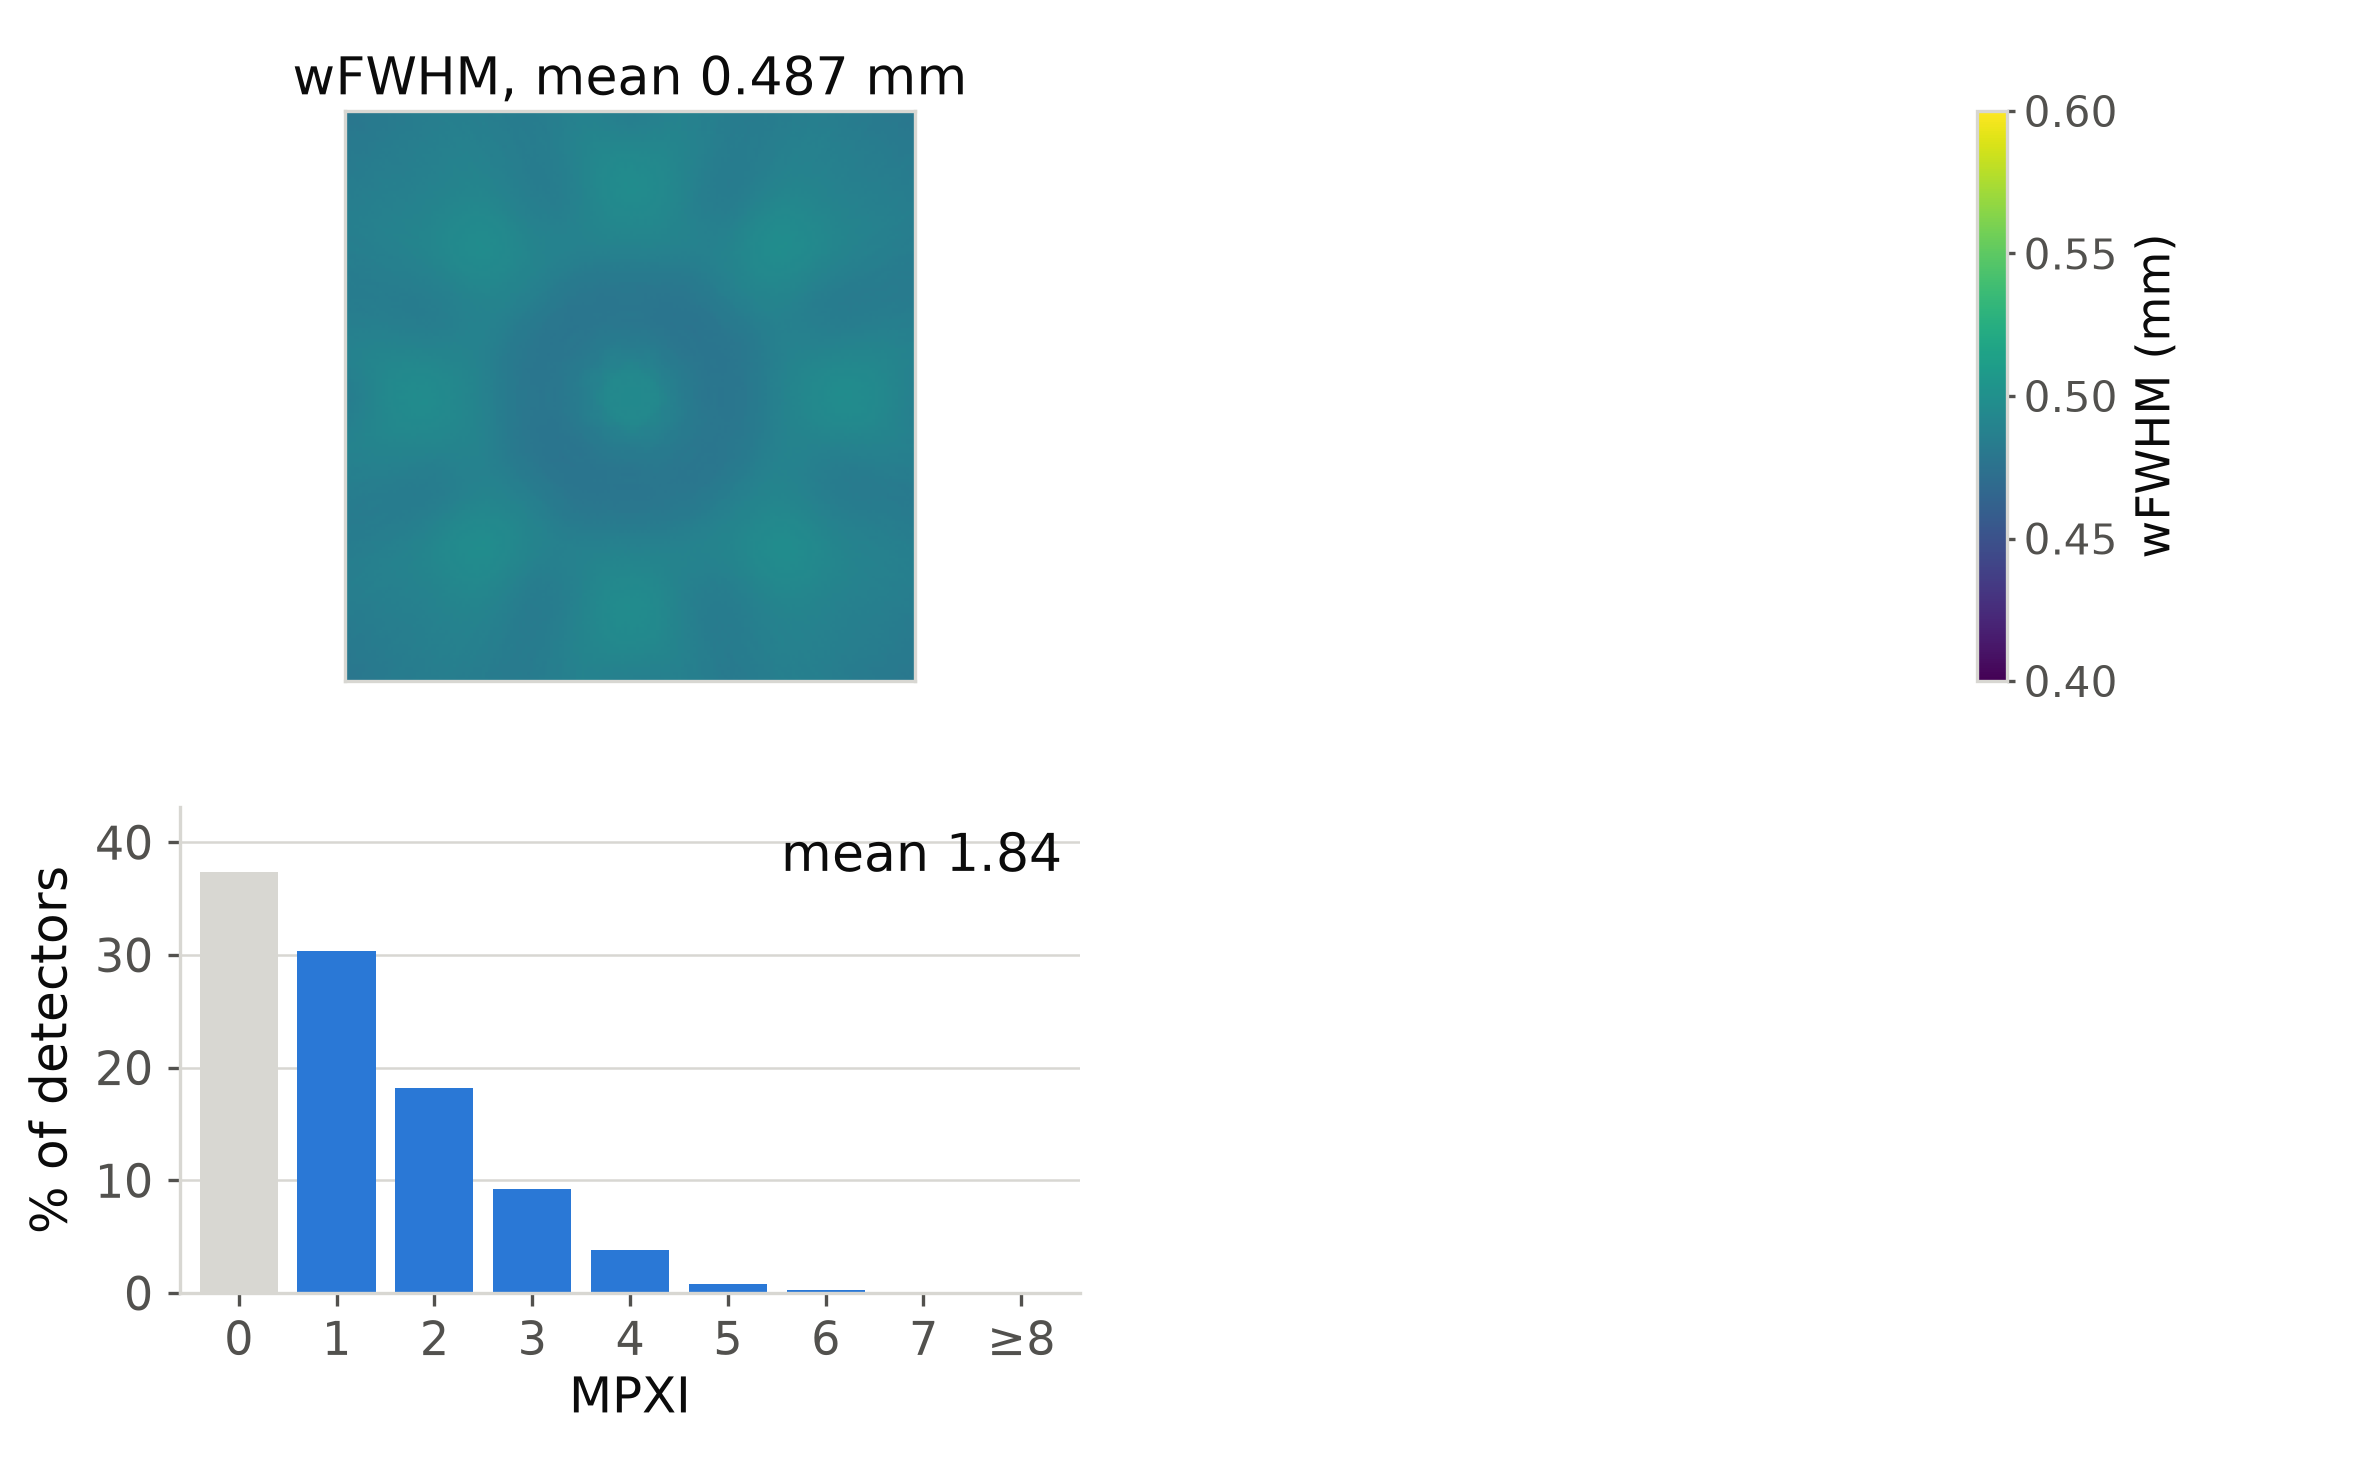
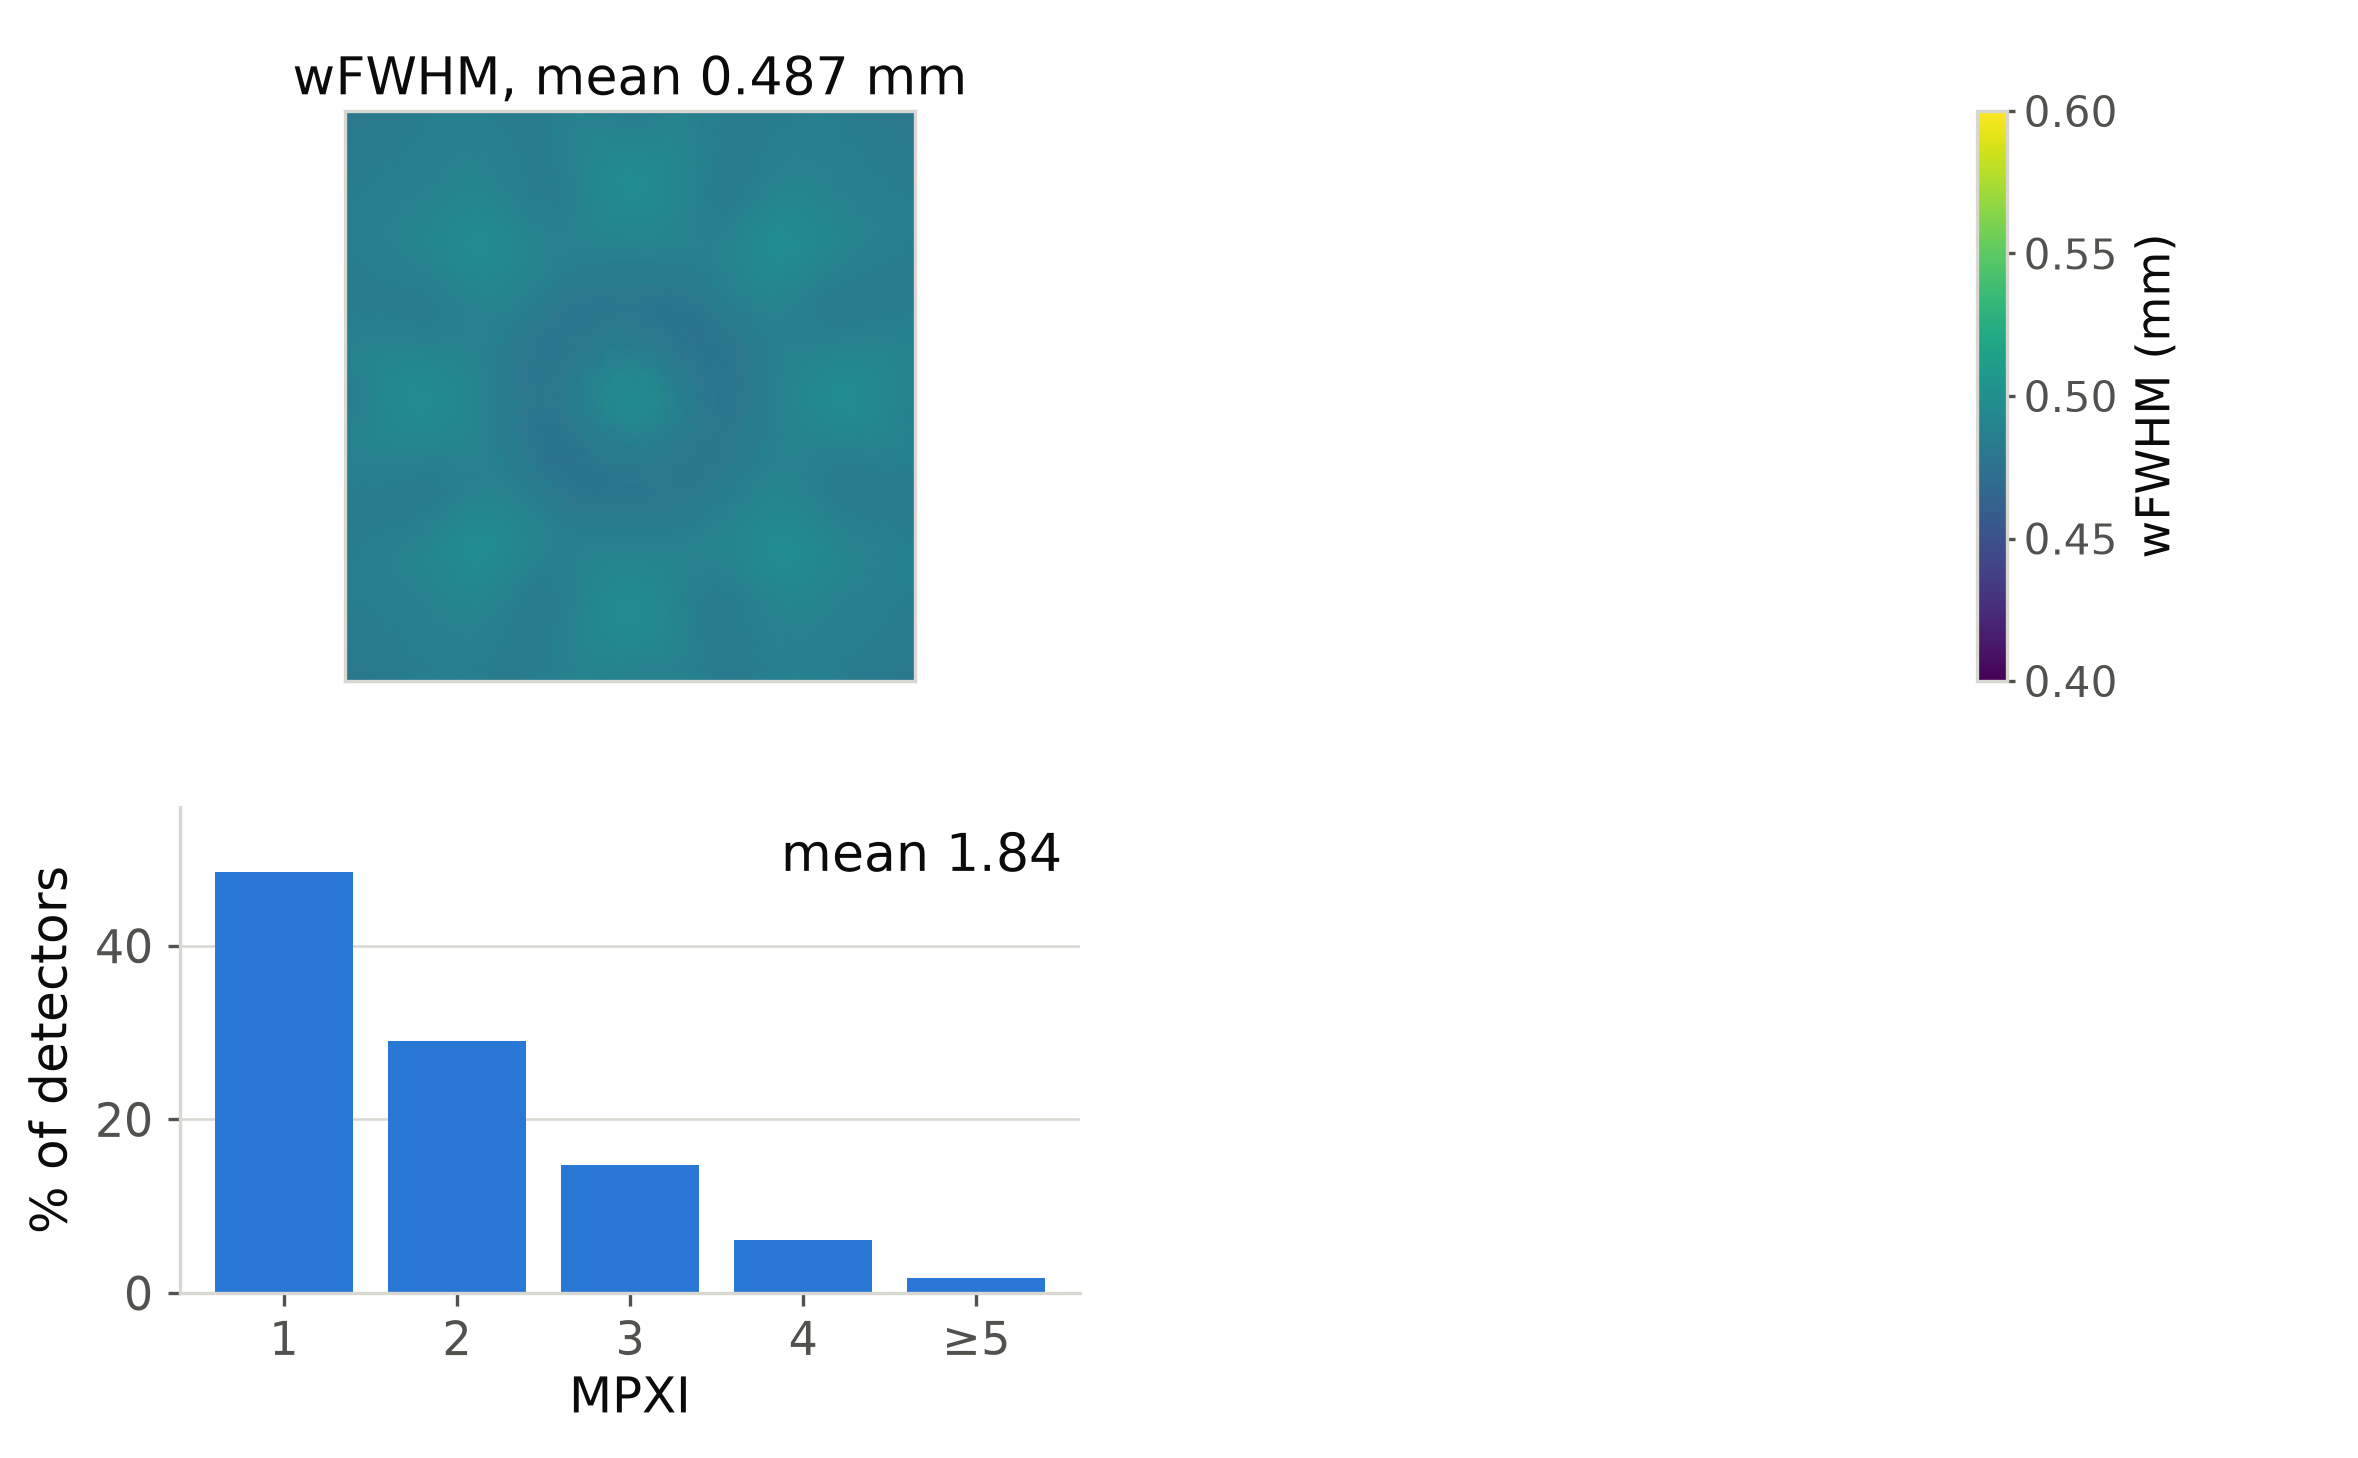
R14 figures: MPXI histogram tail merged into >=5

Changed region(s): [[0.031, 0.5864, 0.4644, 0.9259], [0.2477, 0.8951, 0.2786, 0.9259], [0.031, 0.5556, 0.0619, 0.5864]]

diff --git a/spebt/optimization/make_characterization_figures.py b/spebt/optimization/make_characterization_figures.py
@@ -174,7 +174,9 @@ def maps_figure(d, rows, out, side, name, gap=0.22, left=0.08):
 
 def fwhm_mpxi_figure(d, out):
     """Slide 13 ("wFWHM Map and MPXI Histograms"): his wFWHM_j map above, strips per
-    detector with the FWHM filter below, a line on the slide between the two."""
+    detector with the FWHM filter below, a line on the slide between the two. The
+    histograms cover the detectors with one or more such strips, the set MPXI's mean
+    is taken over (R13: a grey bar for the rest confused Dr. Yao)."""
     fw, fh = AREA_W, AREA_H
     side, hw, hh, y_h = 1.9, 3.0, 1.62, 0.55
     cx = (2.1, 5.5)
@@ -192,16 +194,17 @@ def fwhm_mpxi_figure(d, out):
         maps[c].set_title(f"wFWHM, mean {np.nanmean(v):.3f} mm", fontsize=FS_T, color=INK, pad=4)
         kw = d[key]["dets"][:, 4].astype(int)
         act = kw[kw > 0]
-        hk = np.bincount(np.clip(kw, 0, 8), minlength=9)[:9] / kw.size * 100
-        hists[c].bar(np.arange(9), hk, width=0.8, color=[GRID] + [C_BAR] * 8, lw=0)
+        # 5 and up in one bar (his 2 Nov meeting): alone, 6 to 8 were too small to see
+        hk = np.bincount(np.clip(act, 0, 5), minlength=6)[1:6] / act.size * 100
+        hists[c].bar(np.arange(1, 6), hk, width=0.8, color=C_BAR, lw=0)
         hists[c].text(0.98, 0.95, f"mean {act.mean():.2f}", transform=hists[c].transAxes,
                       ha="right", va="top", fontsize=FS_T, color=INK)
         stats.append((np.nanmean(v), act.mean(), (kw == 0).mean() * 100))
     cbar = vbar(fig, im, cx[1] + side / 2 + 0.14, y_map, side, fw, fh, "wFWHM (mm)")
     ymax = max(h.get_ylim()[1] for h in hists)
     for c, h in enumerate(hists):
-        h.set_xlim(-0.6, 8.6); h.set_ylim(0, ymax * 1.1)
-        h.set_xticks(range(9)); h.set_xticklabels([str(i) for i in range(8)] + ["≥8"])
+        h.set_xlim(0.4, 5.6); h.set_ylim(0, ymax * 1.1)
+        h.set_xticks(range(1, 6)); h.set_xticklabels([str(i) for i in range(1, 5)] + ["≥5"])
         h.set_xlabel("MPXI", fontsize=FS_L, color=INK, labelpad=2)
         if c == 0:
             h.set_ylabel("% of detectors", fontsize=FS_L, color=INK)
